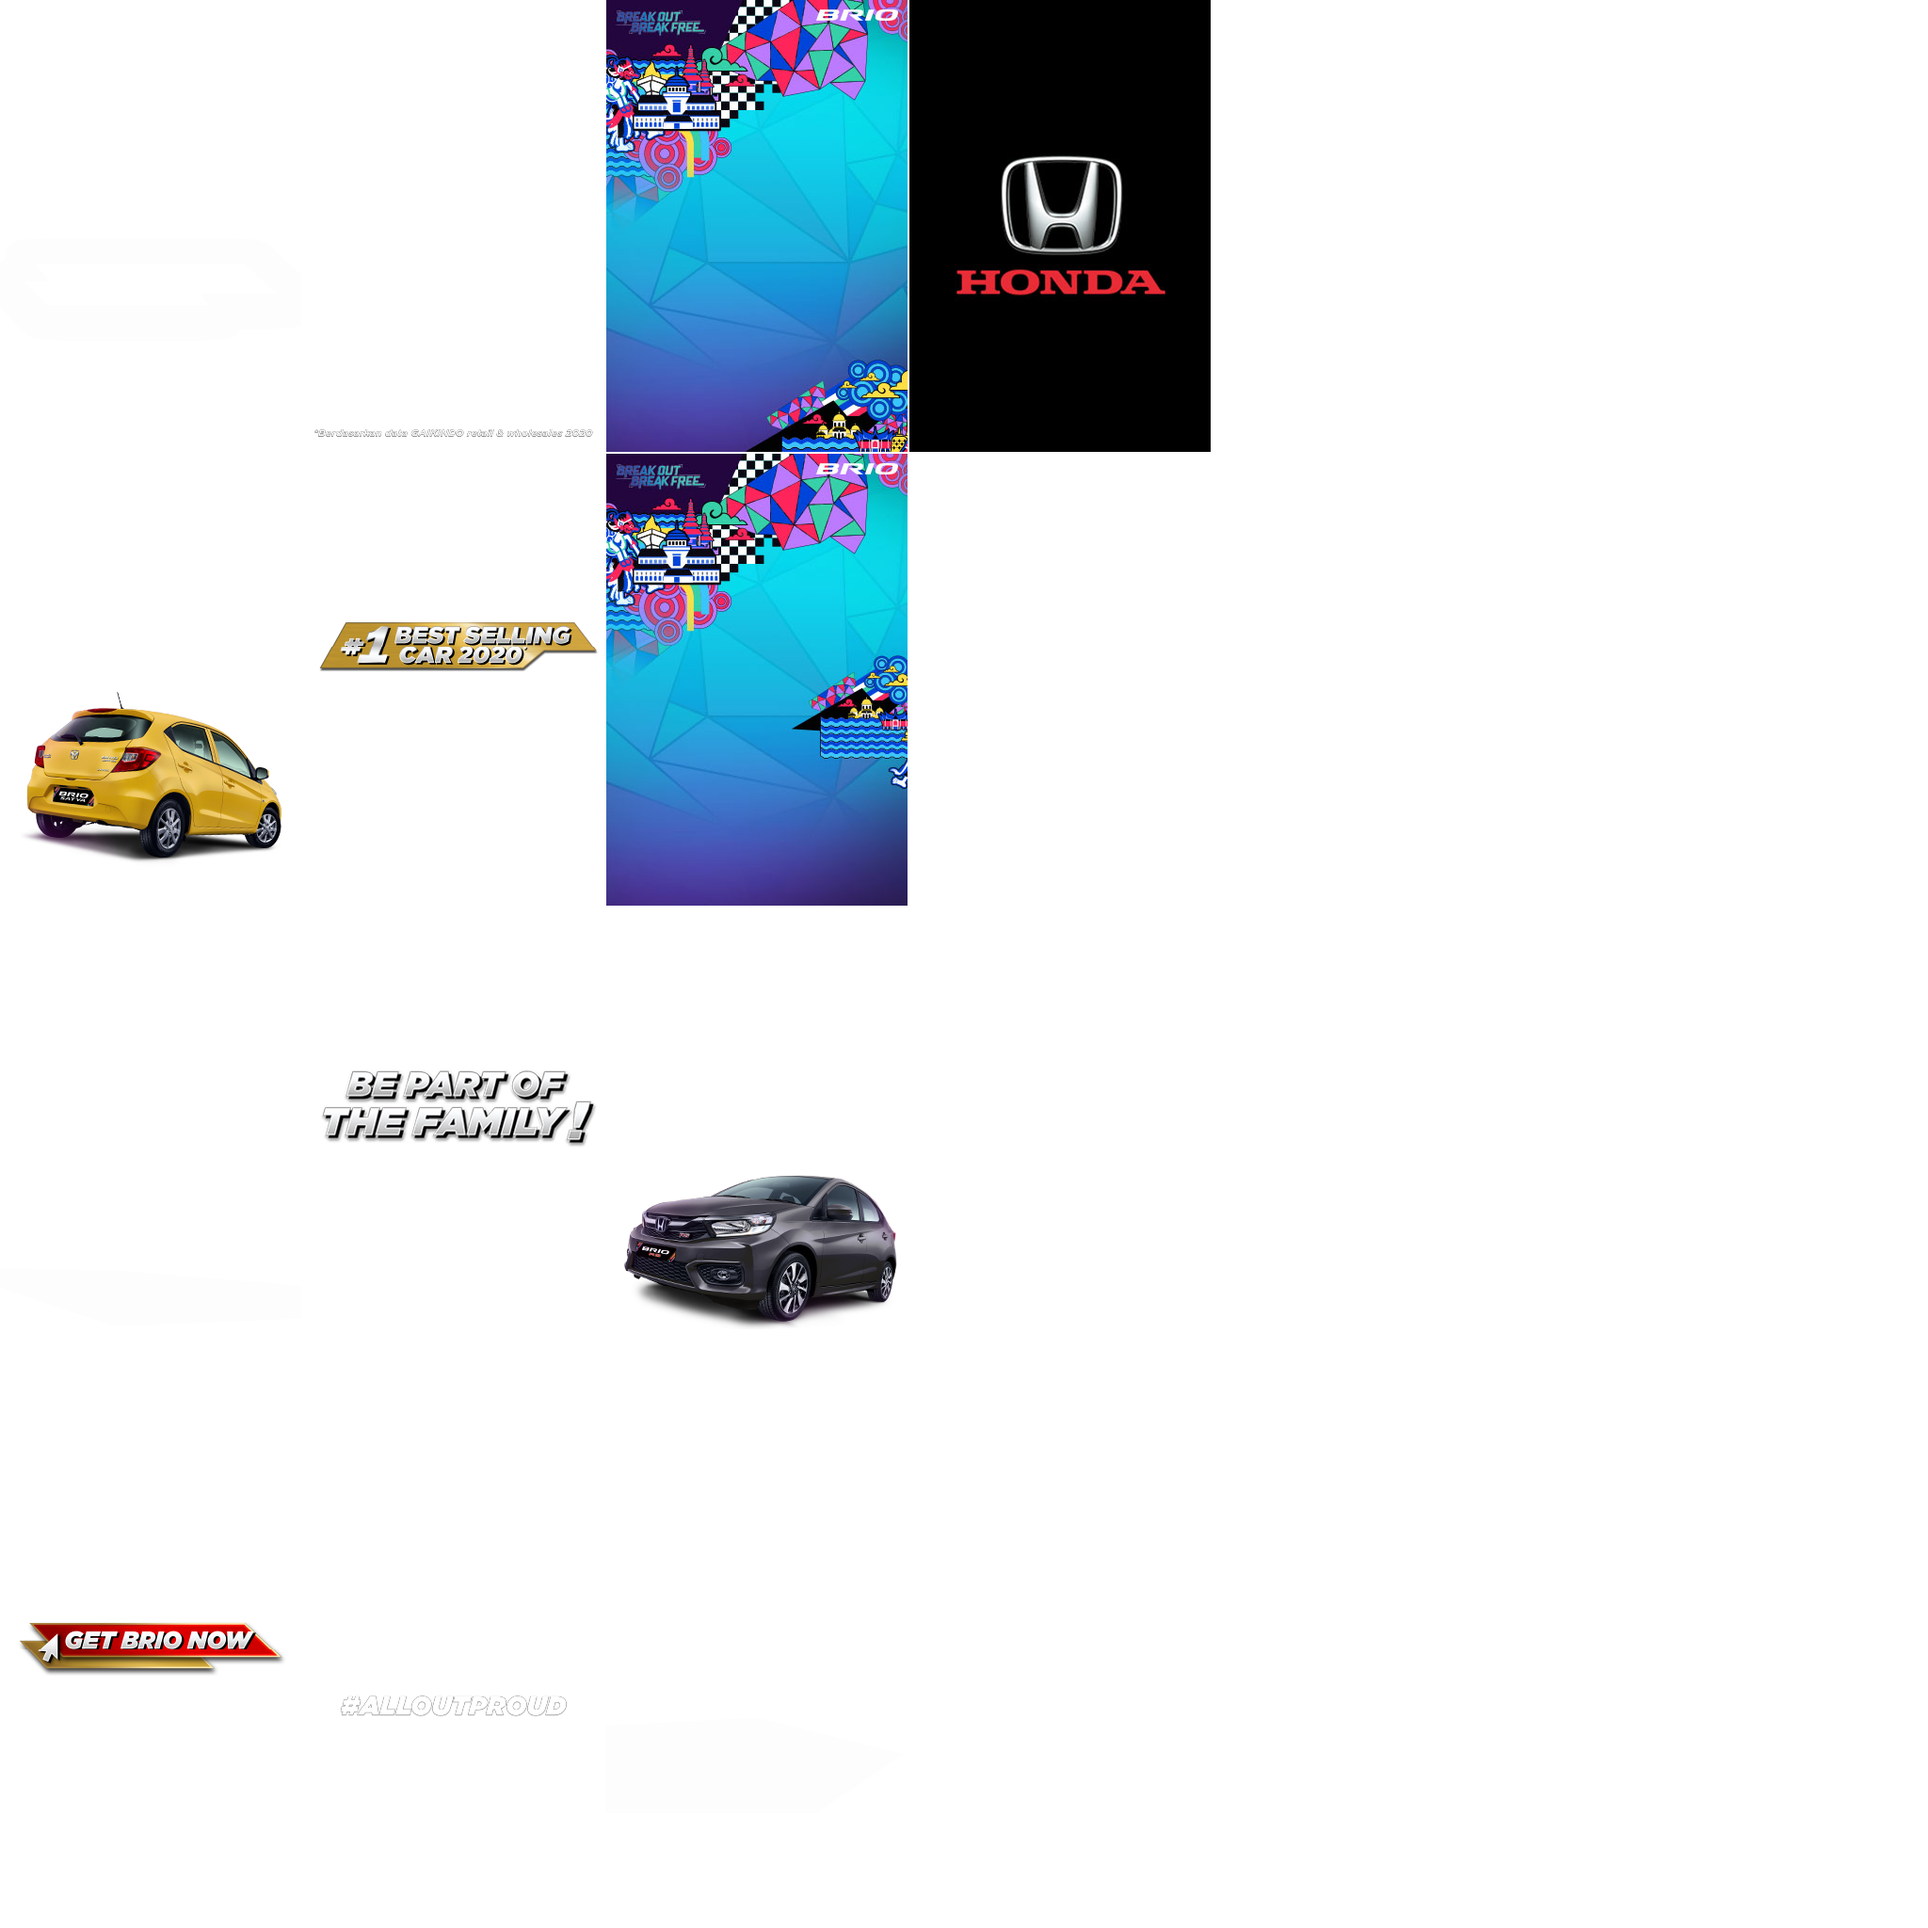
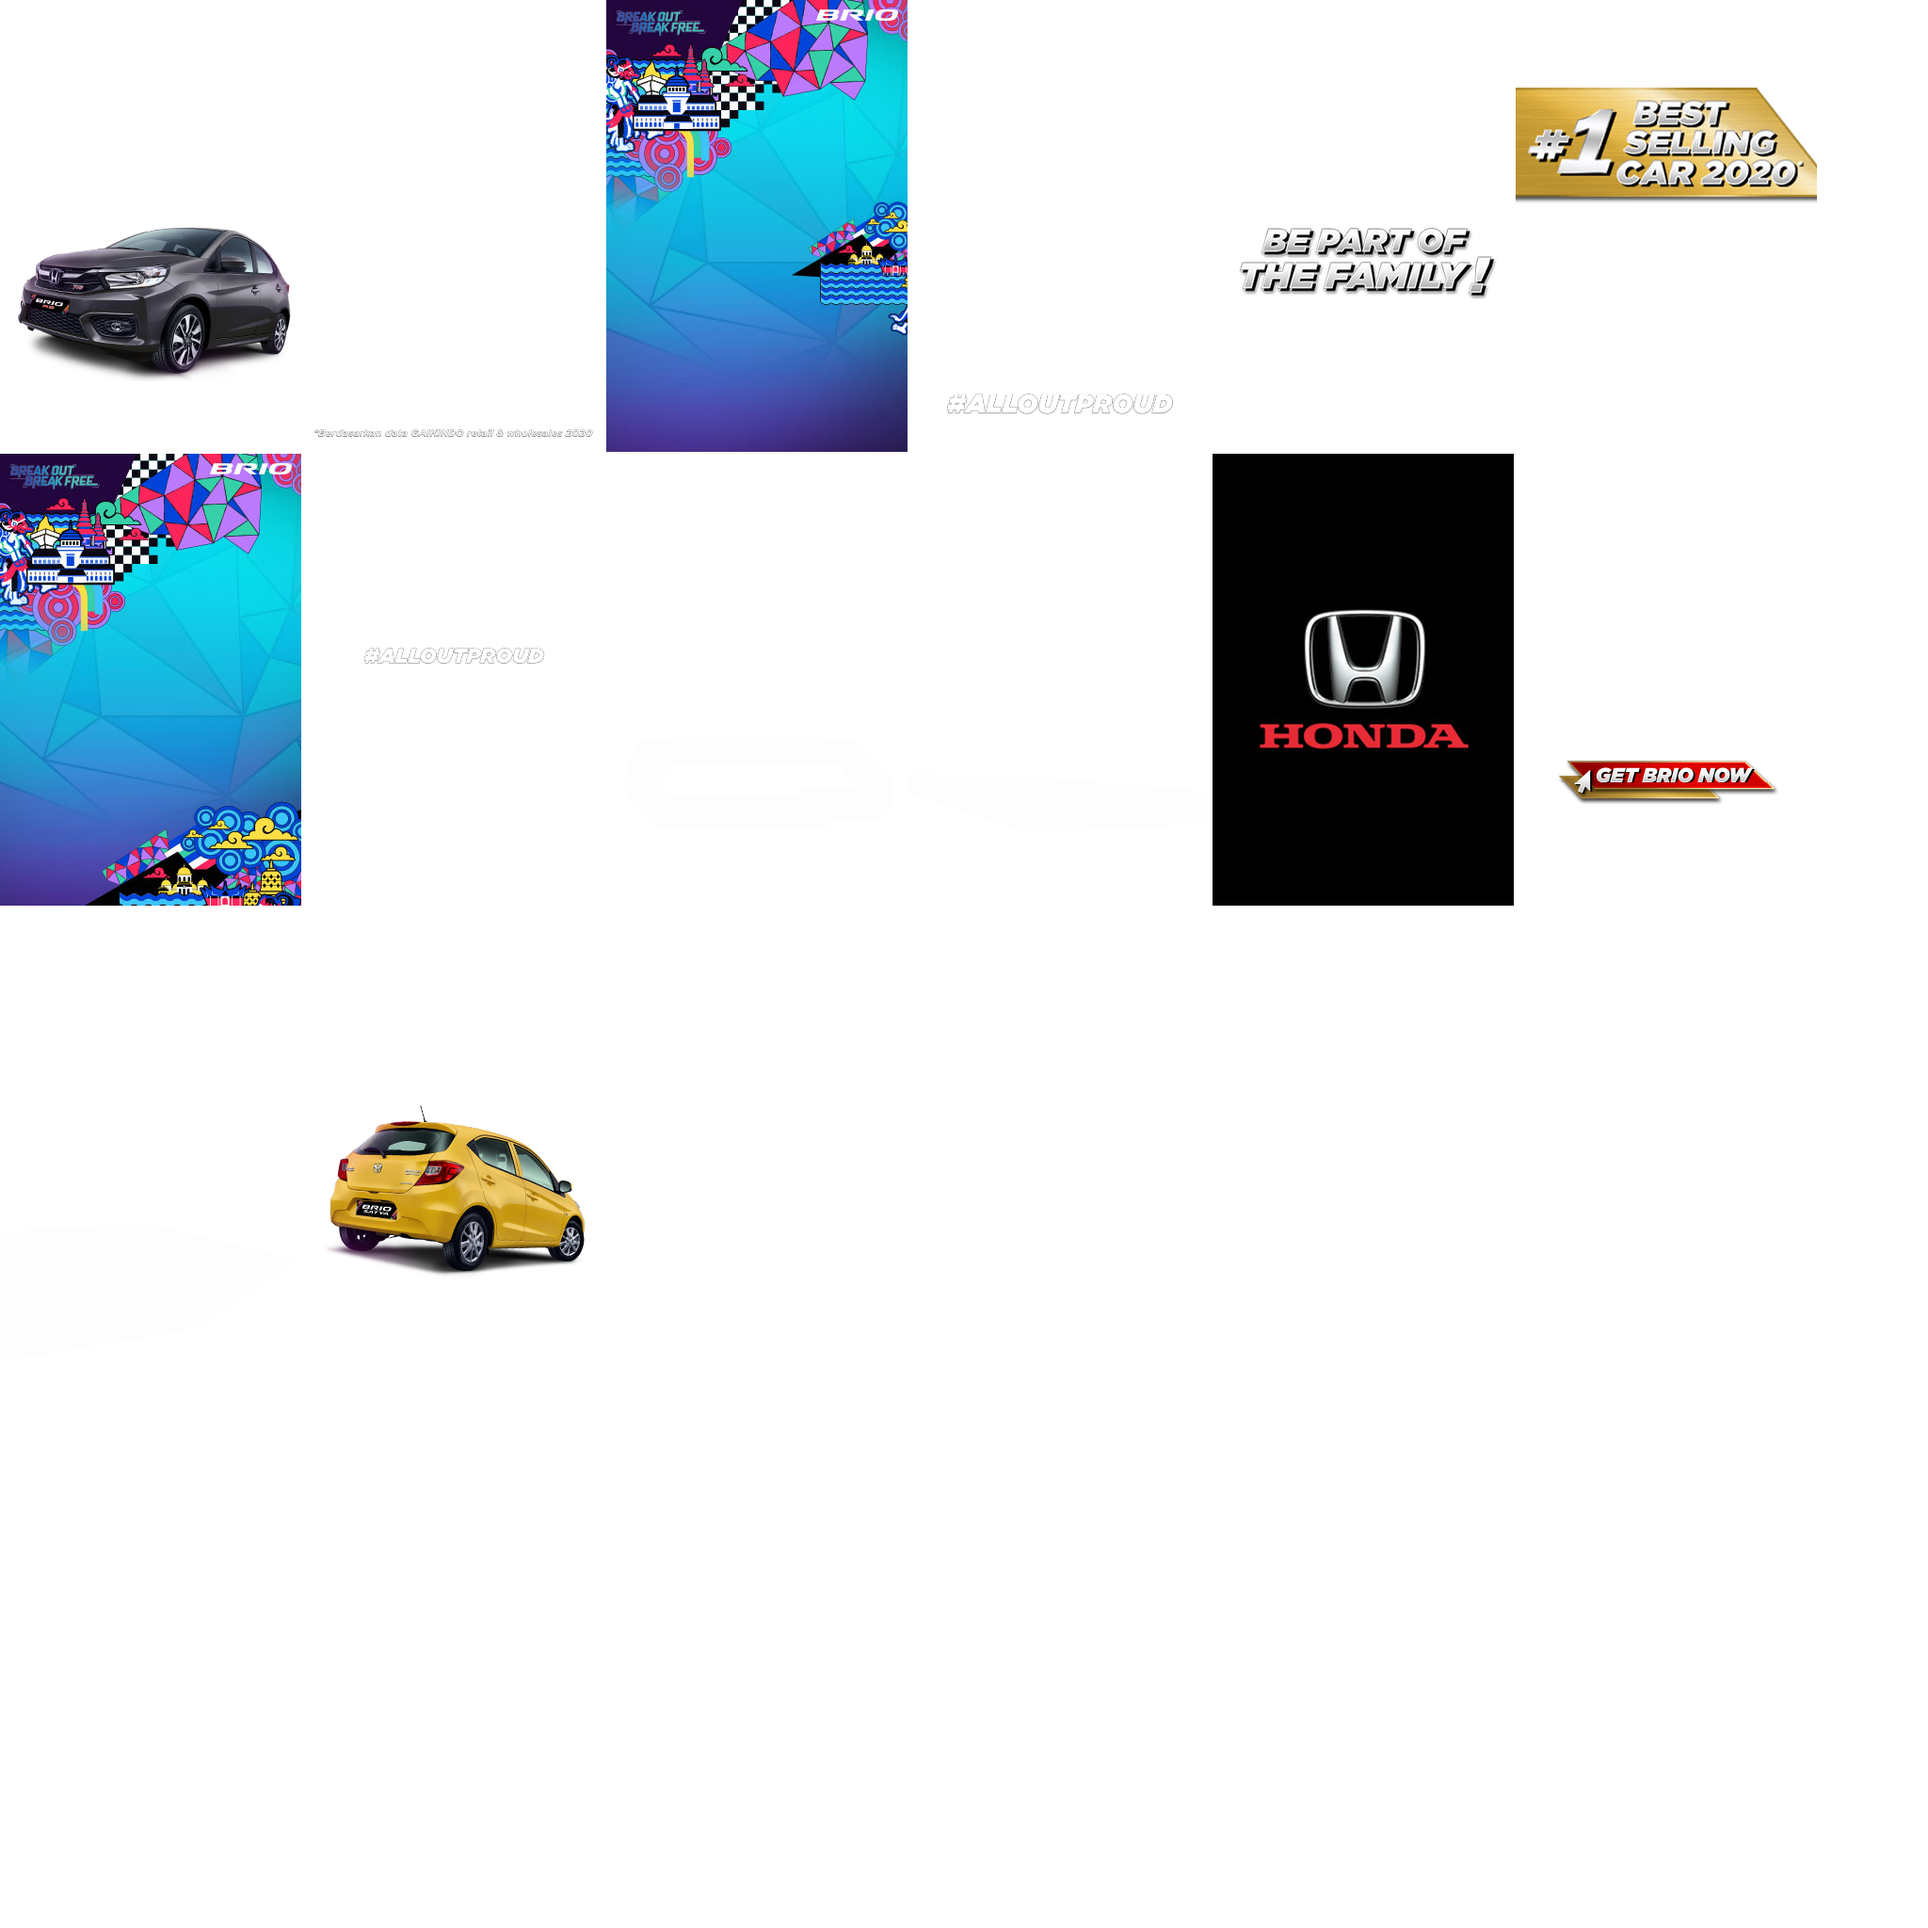
sef

diff --git a/m.idntimes/megabillboard/hondav4/src/320x480/320x480.js b/m.idntimes/megabillboard/hondav4/src/320x480/320x480.js
@@ -3,7 +3,7 @@
 var p; // shortcut to reference prototypes
 var lib={};var ss={};var img={};
 lib.ssMetadata = [
-		{name:"320x480_atlas_", frames: [[322,1446,320,480],[322,964,320,480],[322,0,320,480],[322,482,320,480],[644,482,320,480],[644,0,320,480],[644,964,320,480],[644,1446,320,480],[0,482,320,480],[0,964,320,480],[0,1446,320,480],[0,0,320,480],[966,0,320,480]]}
+		{name:"320x480_atlas_", frames: [[322,482,320,480],[966,0,320,480],[1288,0,320,480],[322,0,320,480],[1610,0,320,480],[644,0,320,480],[0,482,320,480],[0,0,320,480],[0,964,320,480],[322,964,320,480],[966,482,320,480],[1610,482,320,480],[644,482,320,480],[1288,482,320,480]]}
 ];
 
 
@@ -18,88 +18,123 @@ lib.ssMetadata = [
 
 
 
-(lib.bepart = function() {
+(lib.allout2 = function() {
 	this.initialize(ss["320x480_atlas_"]);
 	this.gotoAndStop(1);
 }).prototype = p = new cjs.Sprite();
 
 
 
-(lib.berdasarkan = function() {
+(lib.bepart = function() {
 	this.initialize(ss["320x480_atlas_"]);
 	this.gotoAndStop(2);
 }).prototype = p = new cjs.Sprite();
 
 
 
-(lib.bestselling = function() {
+(lib.berdasarkan = function() {
 	this.initialize(ss["320x480_atlas_"]);
 	this.gotoAndStop(3);
 }).prototype = p = new cjs.Sprite();
 
 
 
-(lib.bg1 = function() {
+(lib.bestselling = function() {
 	this.initialize(ss["320x480_atlas_"]);
 	this.gotoAndStop(4);
 }).prototype = p = new cjs.Sprite();
 
 
 
-(lib.bg2 = function() {
+(lib.bg1 = function() {
 	this.initialize(ss["320x480_atlas_"]);
 	this.gotoAndStop(5);
 }).prototype = p = new cjs.Sprite();
 
 
 
-(lib.car1 = function() {
+(lib.bg2 = function() {
 	this.initialize(ss["320x480_atlas_"]);
 	this.gotoAndStop(6);
 }).prototype = p = new cjs.Sprite();
 
 
 
-(lib.car1bg = function() {
+(lib.car1 = function() {
 	this.initialize(ss["320x480_atlas_"]);
 	this.gotoAndStop(7);
 }).prototype = p = new cjs.Sprite();
 
 
 
-(lib.car2 = function() {
+(lib.car1bg = function() {
 	this.initialize(ss["320x480_atlas_"]);
 	this.gotoAndStop(8);
 }).prototype = p = new cjs.Sprite();
 
 
 
-(lib.car2bg = function() {
+(lib.car2 = function() {
 	this.initialize(ss["320x480_atlas_"]);
 	this.gotoAndStop(9);
 }).prototype = p = new cjs.Sprite();
 
 
 
-(lib.getbrio = function() {
+(lib.car2bg = function() {
 	this.initialize(ss["320x480_atlas_"]);
 	this.gotoAndStop(10);
 }).prototype = p = new cjs.Sprite();
 
 
 
-(lib.getbrioshadow = function() {
+(lib.getbrio = function() {
 	this.initialize(ss["320x480_atlas_"]);
 	this.gotoAndStop(11);
 }).prototype = p = new cjs.Sprite();
 
 
 
-(lib.honda = function() {
+(lib.getbrioshadow = function() {
 	this.initialize(ss["320x480_atlas_"]);
 	this.gotoAndStop(12);
 }).prototype = p = new cjs.Sprite();
 
+
+
+(lib.honda = function() {
+	this.initialize(ss["320x480_atlas_"]);
+	this.gotoAndStop(13);
+}).prototype = p = new cjs.Sprite();
+
+
+
+(lib.Tween27 = function(mode,startPosition,loop) {
+	this.initialize(mode,startPosition,loop,{});
+
+	// Layer_1
+	this.instance = new lib.allout2();
+	this.instance.parent = this;
+	this.instance.setTransform(-160,-240);
+
+	this.timeline.addTween(cjs.Tween.get(this.instance).wait(1));
+
+}).prototype = p = new cjs.MovieClip();
+p.nominalBounds = new cjs.Rectangle(-160,-240,320,480);
+
+
+(lib.Tween26 = function(mode,startPosition,loop) {
+	this.initialize(mode,startPosition,loop,{});
+
+	// Layer_1
+	this.instance = new lib.allout2();
+	this.instance.parent = this;
+	this.instance.setTransform(-160,-240);
+
+	this.timeline.addTween(cjs.Tween.get(this.instance).wait(1));
+
+}).prototype = p = new cjs.MovieClip();
+p.nominalBounds = new cjs.Rectangle(-160,-240,320,480);
 
 
 (lib.Tween24 = function(mode,startPosition,loop) {
@@ -450,6 +485,27 @@ p.nominalBounds = new cjs.Rectangle(-160,-240,320,480);
 }).prototype = p = new cjs.MovieClip();
 
 
+(lib.Scene_1_Layer_1 = function(mode,startPosition,loop) {
+	this.initialize(mode,startPosition,loop,{});
+
+	// Layer_1
+	this.instance = new lib.Tween26("synched",0);
+	this.instance.parent = this;
+	this.instance.setTransform(160,222.8);
+	this.instance.alpha = 0;
+	this.instance._off = true;
+
+	this.instance_1 = new lib.Tween27("synched",0);
+	this.instance_1.parent = this;
+	this.instance_1.setTransform(160,240);
+	this.instance_1._off = true;
+
+	this.timeline.addTween(cjs.Tween.get(this.instance).wait(33).to({_off:false},0).to({_off:true,y:240,alpha:1},7,cjs.Ease.quadOut).wait(134));
+	this.timeline.addTween(cjs.Tween.get(this.instance_1).wait(33).to({_off:false},7,cjs.Ease.quadOut).wait(124).to({startPosition:0},0).to({alpha:0},9).wait(1));
+
+}).prototype = p = new cjs.MovieClip();
+
+
 (lib.Scene_1_honda = function(mode,startPosition,loop) {
 	this.initialize(mode,startPosition,loop,{});
 
@@ -621,7 +677,7 @@ p.nominalBounds = new cjs.Rectangle(-160,-240,320,480);
 	// bestseling
 	this.instance = new lib.Tween5("synched",0);
 	this.instance.parent = this;
-	this.instance.setTransform(461.35,240);
+	this.instance.setTransform(-125.55,240);
 	this.instance.alpha = 0;
 	this.instance._off = true;
 
@@ -684,6 +740,7 @@ p.nominalBounds = new cjs.Rectangle(-160,-240,320,480);
 	this.instance = new lib.Tween21("synched",0);
 	this.instance.parent = this;
 	this.instance.setTransform(160,284.95);
+	this.instance.alpha = 0;
 	this.instance._off = true;
 
 	this.instance_1 = new lib.Tween22("synched",0);
@@ -691,7 +748,7 @@ p.nominalBounds = new cjs.Rectangle(-160,-240,320,480);
 	this.instance_1.setTransform(160,240);
 
 	this.timeline.addTween(cjs.Tween.get({}).to({state:[]}).to({state:[{t:this.instance}]},203).to({state:[{t:this.instance_1}]},10).wait(62));
-	this.timeline.addTween(cjs.Tween.get(this.instance).wait(203).to({_off:false},0).to({_off:true,y:240},10,cjs.Ease.quadOut).wait(62));
+	this.timeline.addTween(cjs.Tween.get(this.instance).wait(203).to({_off:false},0).to({_off:true,y:240,alpha:1},10,cjs.Ease.quadOut).wait(62));
 
 }).prototype = p = new cjs.MovieClip();
 
@@ -815,6 +872,19 @@ p.nominalBounds = new cjs.Rectangle(-160,-240,320,480);
 
 	this.timeline.addTween(cjs.Tween.get(this.bg2).wait(183).to({_off:true},92).wait(65));
 
+	// Layer_1_obj_
+	this.Layer_1 = new lib.Scene_1_Layer_1();
+	this.Layer_1.name = "Layer_1";
+	this.Layer_1.parent = this;
+	this.Layer_1.depth = 0;
+	this.Layer_1.isAttachedToCamera = 0
+	this.Layer_1.isAttachedToMask = 0
+	this.Layer_1.layerDepth = 0
+	this.Layer_1.layerIndex = 6
+	this.Layer_1.maskLayerName = 0
+
+	this.timeline.addTween(cjs.Tween.get(this.Layer_1).wait(173).to({_off:true},1).wait(166));
+
 	// berdasarkan_obj_
 	this.berdasarkan = new lib.Scene_1_berdasarkan();
 	this.berdasarkan.name = "berdasarkan";
@@ -823,7 +893,7 @@ p.nominalBounds = new cjs.Rectangle(-160,-240,320,480);
 	this.berdasarkan.isAttachedToCamera = 0
 	this.berdasarkan.isAttachedToMask = 0
 	this.berdasarkan.layerDepth = 0
-	this.berdasarkan.layerIndex = 6
+	this.berdasarkan.layerIndex = 7
 	this.berdasarkan.maskLayerName = 0
 
 	this.timeline.addTween(cjs.Tween.get(this.berdasarkan).wait(173).to({_off:true},1).wait(166));
@@ -836,7 +906,7 @@ p.nominalBounds = new cjs.Rectangle(-160,-240,320,480);
 	this.bestseling.isAttachedToCamera = 0
 	this.bestseling.isAttachedToMask = 0
 	this.bestseling.layerDepth = 0
-	this.bestseling.layerIndex = 7
+	this.bestseling.layerIndex = 8
 	this.bestseling.maskLayerName = 0
 
 	this.timeline.addTween(cjs.Tween.get(this.bestseling).wait(173).to({_off:true},1).wait(166));
@@ -849,7 +919,7 @@ p.nominalBounds = new cjs.Rectangle(-160,-240,320,480);
 	this.car2.isAttachedToCamera = 0
 	this.car2.isAttachedToMask = 0
 	this.car2.layerDepth = 0
-	this.car2.layerIndex = 8
+	this.car2.layerIndex = 9
 	this.car2.maskLayerName = 0
 
 	this.timeline.addTween(cjs.Tween.get(this.car2).wait(159).to({_off:true},1).wait(180));
@@ -862,7 +932,7 @@ p.nominalBounds = new cjs.Rectangle(-160,-240,320,480);
 	this.car2bg.isAttachedToCamera = 0
 	this.car2bg.isAttachedToMask = 0
 	this.car2bg.layerDepth = 0
-	this.car2bg.layerIndex = 9
+	this.car2bg.layerIndex = 10
 	this.car2bg.maskLayerName = 0
 
 	this.timeline.addTween(cjs.Tween.get(this.car2bg).wait(159).to({_off:true},1).wait(180));
@@ -875,7 +945,7 @@ p.nominalBounds = new cjs.Rectangle(-160,-240,320,480);
 	this.car1.isAttachedToCamera = 0
 	this.car1.isAttachedToMask = 0
 	this.car1.layerDepth = 0
-	this.car1.layerIndex = 10
+	this.car1.layerIndex = 11
 	this.car1.maskLayerName = 0
 
 	this.timeline.addTween(cjs.Tween.get(this.car1).wait(84).to({_off:true},1).wait(255));
@@ -888,7 +958,7 @@ p.nominalBounds = new cjs.Rectangle(-160,-240,320,480);
 	this.car1bg.isAttachedToCamera = 0
 	this.car1bg.isAttachedToMask = 0
 	this.car1bg.layerDepth = 0
-	this.car1bg.layerIndex = 11
+	this.car1bg.layerIndex = 12
 	this.car1bg.maskLayerName = 0
 
 	this.timeline.addTween(cjs.Tween.get(this.car1bg).wait(84).to({_off:true},1).wait(255));
@@ -902,13 +972,13 @@ p.nominalBounds = new cjs.Rectangle(-160,-240,320,480);
 	this.bg1.isAttachedToCamera = 0
 	this.bg1.isAttachedToMask = 0
 	this.bg1.layerDepth = 0
-	this.bg1.layerIndex = 12
+	this.bg1.layerIndex = 13
 	this.bg1.maskLayerName = 0
 
 	this.timeline.addTween(cjs.Tween.get(this.bg1).to({_off:true},184).wait(156));
 
 }).prototype = p = new cjs.MovieClip();
-p.nominalBounds = new cjs.Rectangle(-148.7,162.1,770.0999999999999,456.4);
+p.nominalBounds = new cjs.Rectangle(-148.7,162.1,520.8,456.4);
 // library properties:
 lib.properties = {
 	id: '19D1BD297C2C9A4A8838382122B9470B',
